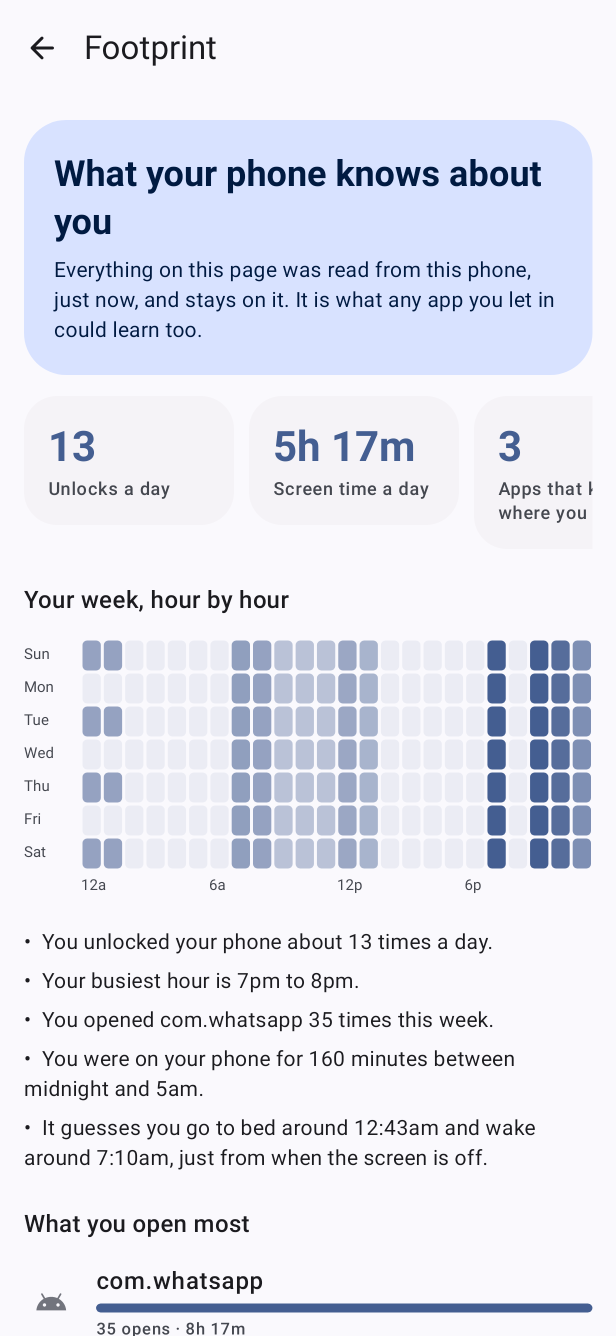
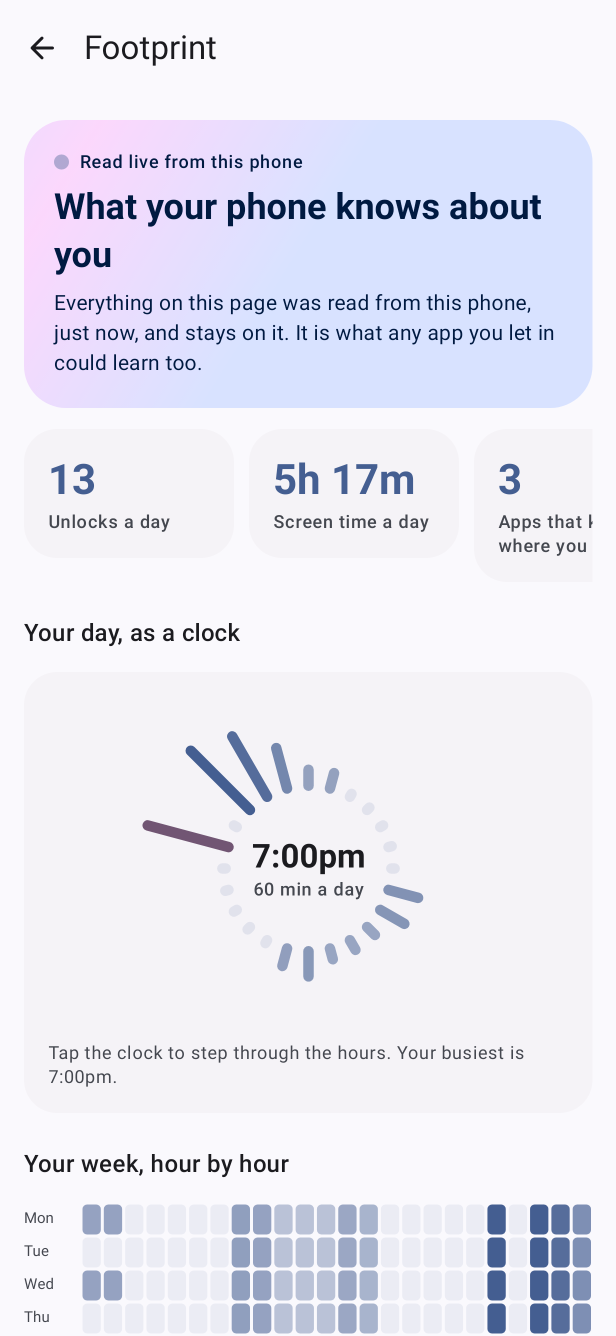
feat(footprint): animated charts and effects (1.35.0)
Drifting-gradient header, 24-hour day clock, access ring chart, smooth area charts, growing bars, press and rise effects.

Claude-Session: https://claude.ai/code/session_01Tx3SnRy1Ho2ASXx4YFffLW

diff --git a/app/src/main/java/app/ultimate/footprint/FootprintCharts.kt b/app/src/main/java/app/ultimate/footprint/FootprintCharts.kt
@@ -1,0 +1,174 @@
+package app.ultimate.footprint
+
+import androidx.compose.animation.core.Animatable
+import androidx.compose.animation.core.FastOutSlowInEasing
+import androidx.compose.animation.core.LinearEasing
+import androidx.compose.animation.core.RepeatMode
+import androidx.compose.animation.core.animateFloat
+import androidx.compose.animation.core.infiniteRepeatable
+import androidx.compose.animation.core.rememberInfiniteTransition
+import androidx.compose.animation.core.tween
+import androidx.compose.foundation.Canvas
+import androidx.compose.foundation.background
+import androidx.compose.foundation.clickable
+import androidx.compose.foundation.layout.Arrangement
+import androidx.compose.foundation.layout.Box
+import androidx.compose.foundation.layout.Column
+import androidx.compose.foundation.layout.Row
+import androidx.compose.foundation.layout.fillMaxWidth
+import androidx.compose.foundation.layout.height
+import androidx.compose.foundation.layout.padding
+import androidx.compose.foundation.layout.size
+import androidx.compose.foundation.shape.CircleShape
+import androidx.compose.foundation.shape.RoundedCornerShape
+import androidx.compose.material3.MaterialTheme
+import androidx.compose.material3.Text
+import androidx.compose.runtime.Composable
+import androidx.compose.runtime.LaunchedEffect
+import androidx.compose.runtime.getValue
+import androidx.compose.runtime.mutableIntStateOf
+import androidx.compose.runtime.remember
+import androidx.compose.runtime.setValue
+import androidx.compose.ui.Alignment
+import androidx.compose.ui.Modifier
+import androidx.compose.ui.draw.clip
+import androidx.compose.ui.geometry.Offset
+import androidx.compose.ui.geometry.Size
+import androidx.compose.ui.graphics.Brush
+import androidx.compose.ui.graphics.Color
+import androidx.compose.ui.graphics.Path
+import androidx.compose.ui.graphics.StrokeCap
+import androidx.compose.ui.graphics.drawscope.Stroke
+import androidx.compose.ui.graphics.drawscope.clipRect
+import androidx.compose.ui.text.font.FontWeight
+import androidx.compose.ui.unit.dp
+import app.ultimate.core.pressScale
+import kotlin.math.PI
+import kotlin.math.cos
+import kotlin.math.sin
+
+/** Chart arithmetic, kept apart from drawing so it can be tested. */
+object ChartMath {
+    /** Total time in each hour of the day across the week, from the seven-by-24 heat map. */
+    fun hourTotals(heat: Array<LongArray>): LongArray = LongArray(24) { h -> heat.sumOf { it.getOrElse(h) { 0L } } }
+
+    fun peakHour(totals: LongArray): Int? = totals.indices.maxByOrNull { totals[it] }?.takeIf { totals[it] > 0 }
+
+    /** Sweep angles in degrees for each share, leaving a [gap] between slices. Zero total gives no slices. */
+    fun sweeps(values: List<Int>, gap: Float = 3f): List<Float> {
+        val total = values.sum(); if (total <= 0) return values.map { 0f }
+        val usable = 360f - gap * values.count { it > 0 }
+        return values.map { if (it <= 0) 0f else usable * it / total }
+    }
+
+    /** y positions (0 top, 1 bottom) for a line chart, scaled to the biggest value. */
+    fun normalized(values: List<Long>): List<Float> { val m = values.maxOrNull()?.coerceAtLeast(1) ?: 1; return values.map { 1f - it / m.toFloat() } }
+}
+
+/** A slow-moving gradient behind the intro card, and a dot that pulses to say it was read live. */
+@Composable
+internal fun LiveHero(title: String, body: String) {
+    val t = rememberInfiniteTransition(label = "hero")
+    val drift by t.animateFloat(0f, 1f, infiniteRepeatable(tween(9000, easing = LinearEasing), RepeatMode.Reverse), label = "drift")
+    val pulse by t.animateFloat(0.4f, 1f, infiniteRepeatable(tween(1100, easing = FastOutSlowInEasing), RepeatMode.Reverse), label = "pulse")
+    val a = MaterialTheme.colorScheme.primaryContainer; val b = MaterialTheme.colorScheme.tertiaryContainer; val on = MaterialTheme.colorScheme.onPrimaryContainer
+    Column(
+        Modifier.fillMaxWidth().clip(RoundedCornerShape(28.dp))
+            .background(Brush.linearGradient(listOf(a, b, a), start = Offset(-400f + 900f * drift, 0f), end = Offset(400f + 900f * drift, 500f)))
+            .padding(20.dp),
+        verticalArrangement = Arrangement.spacedBy(6.dp),
+    ) {
+        Row(verticalAlignment = Alignment.CenterVertically) {
+            Box(Modifier.size(10.dp).clip(CircleShape).background(MaterialTheme.colorScheme.primary.copy(alpha = pulse)))
+            Text("  Read live from this phone", style = MaterialTheme.typography.labelMedium, color = on)
+        }
+        Text(title, style = MaterialTheme.typography.headlineSmall, fontWeight = FontWeight.Bold, color = on)
+        Text(body, style = MaterialTheme.typography.bodyMedium, color = on)
+    }
+}
+
+/** Your day as a clock: 24 spokes, each as long as the time you spend on the phone in that hour. They grow out from the middle once. */
+@Composable
+internal fun DayClock(heat: Array<LongArray>) {
+    val totals = remember(heat) { ChartMath.hourTotals(heat) }
+    val peak = ChartMath.peakHour(totals)
+    val grow = remember(heat) { Animatable(0f) }
+    LaunchedEffect(heat) { grow.animateTo(1f, tween(1000, easing = FastOutSlowInEasing)) }
+    var picked by remember(heat) { mutableIntStateOf(-1) }
+    val shown = if (picked >= 0) picked else peak
+    val color = MaterialTheme.colorScheme.primary; val dim = MaterialTheme.colorScheme.surfaceVariant; val hot = MaterialTheme.colorScheme.tertiary
+    Column(Modifier.fillMaxWidth().clip(RoundedCornerShape(22.dp)).background(MaterialTheme.colorScheme.surfaceContainerLow).padding(16.dp), horizontalAlignment = Alignment.CenterHorizontally) {
+        Box(Modifier.size(230.dp).clickable { picked = if (shown == null) -1 else (shown + 1) % 24 }, contentAlignment = Alignment.Center) {
+            Canvas(Modifier.size(230.dp)) {
+                val c = center; val inner = size.minDimension * 0.24f; val outer = size.minDimension / 2f - 4.dp.toPx(); val max = (totals.maxOrNull() ?: 1L).coerceAtLeast(1L).toFloat()
+                for (h in 0 until 24) {
+                    val ang = (h / 24f) * 2 * PI - PI / 2
+                    val f = totals[h] / max * grow.value
+                    val len = inner + (outer - inner) * f.coerceAtLeast(0.04f)
+                    val start = Offset(c.x + cos(ang).toFloat() * inner, c.y + sin(ang).toFloat() * inner)
+                    val end = Offset(c.x + cos(ang).toFloat() * len, c.y + sin(ang).toFloat() * len)
+                    drawLine(if (h == shown) hot else if (totals[h] > 0) color.copy(alpha = 0.45f + 0.55f * f.coerceIn(0f, 1f)) else dim, start, end, strokeWidth = 7.dp.toPx(), cap = StrokeCap.Round)
+                }
+            }
+            Column(horizontalAlignment = Alignment.CenterHorizontally) {
+                if (shown != null) {
+                    Text(Habits.clock(shown * 60), style = MaterialTheme.typography.titleLarge, fontWeight = FontWeight.Bold)
+                    Text("${totals[shown] / 60_000 / 7} min a day", style = MaterialTheme.typography.labelMedium, color = MaterialTheme.colorScheme.onSurfaceVariant)
+                } else Text("No data yet", color = MaterialTheme.colorScheme.onSurfaceVariant)
+            }
+        }
+        Text(if (peak != null) "Tap the clock to step through the hours. Your busiest is ${Habits.clock(peak * 60)}." else "Use your phone for a day and this fills in.", style = MaterialTheme.typography.bodySmall, color = MaterialTheme.colorScheme.onSurfaceVariant)
+    }
+}
+
+/** A ring split by kind of access, sweeping round once. Tap a slice's row to pick it. */
+@Composable
+internal fun AccessDonut(items: List<Pair<String, Int>>, colors: List<Color>, selected: Int, onPick: (Int) -> Unit) {
+    val sweeps = remember(items) { ChartMath.sweeps(items.map { it.second }) }
+    val grow = remember(items) { Animatable(0f) }
+    LaunchedEffect(items) { grow.animateTo(1f, tween(1100, easing = FastOutSlowInEasing)) }
+    Row(Modifier.fillMaxWidth().clip(RoundedCornerShape(22.dp)).background(MaterialTheme.colorScheme.surfaceContainerLow).padding(16.dp), verticalAlignment = Alignment.CenterVertically) {
+        Box(Modifier.size(130.dp), contentAlignment = Alignment.Center) {
+            Canvas(Modifier.size(130.dp)) {
+                var from = -90f; val w = 16.dp.toPx(); val pad = w / 2 + 4.dp.toPx()
+                sweeps.forEachIndexed { i, s ->
+                    val span = s * grow.value
+                    drawArc(colors[i % colors.size].copy(alpha = if (selected < 0 || selected == i) 1f else 0.3f), from, span, false, Offset(pad, pad), Size(size.width - 2 * pad, size.height - 2 * pad), style = Stroke(if (selected == i) w + 4.dp.toPx() else w, cap = StrokeCap.Butt))
+                    from += s + 3f
+                }
+            }
+            Text(items.getOrNull(selected)?.second?.toString() ?: items.sumOf { it.second }.toString(), style = MaterialTheme.typography.headlineSmall, fontWeight = FontWeight.Bold)
+        }
+        Column(Modifier.padding(start = 16.dp), verticalArrangement = Arrangement.spacedBy(4.dp)) {
+            items.take(6).forEachIndexed { i, (name, n) ->
+                Row(Modifier.fillMaxWidth().pressScale(0.97f).clip(RoundedCornerShape(10.dp)).clickable { onPick(if (selected == i) -1 else i) }.padding(vertical = 3.dp), verticalAlignment = Alignment.CenterVertically) {
+                    Box(Modifier.size(10.dp).clip(CircleShape).background(colors[i % colors.size])); Text("  $name", Modifier.weight(1f), maxLines = 1, style = MaterialTheme.typography.bodySmall); Text("$n", style = MaterialTheme.typography.labelLarge)
+                }
+            }
+        }
+    }
+}
+
+/** A smooth line with a fill underneath, drawn left to right once. */
+@Composable
+internal fun AreaChart(values: List<Long>, modifier: Modifier = Modifier.fillMaxWidth().height(90.dp)) {
+    val draw = remember(values) { Animatable(0f) }
+    LaunchedEffect(values) { draw.animateTo(1f, tween(900, easing = FastOutSlowInEasing)) }
+    val line = MaterialTheme.colorScheme.primary
+    Canvas(modifier) {
+        if (values.size < 2) return@Canvas
+        val ys = ChartMath.normalized(values); val dx = size.width / (values.size - 1); val top = 6.dp.toPx(); val h = size.height - top - 2.dp.toPx()
+        fun pt(i: Int) = Offset(i * dx, top + ys[i] * h)
+        val path = Path().apply {
+            moveTo(pt(0).x, pt(0).y)
+            for (i in 1 until values.size) { val a = pt(i - 1); val b = pt(i); cubicTo((a.x + b.x) / 2, a.y, (a.x + b.x) / 2, b.y, b.x, b.y) }
+        }
+        val clipW = size.width * draw.value
+        clipRect(right = clipW) {
+            val fill = Path().apply { addPath(path); lineTo(pt(values.size - 1).x, size.height); lineTo(0f, size.height); close() }
+            drawPath(fill, Brush.verticalGradient(listOf(line.copy(alpha = 0.35f), Color.Transparent)))
+            drawPath(path, line, style = Stroke(3.dp.toPx(), cap = StrokeCap.Round))
+        }
+        if (draw.value >= 1f) drawCircle(line, 5.dp.toPx(), pt(values.size - 1))
+    }
+}

diff --git a/app/src/main/java/app/ultimate/footprint/FootprintTool.kt b/app/src/main/java/app/ultimate/footprint/FootprintTool.kt
@@ -9,6 +9,8 @@ import androidx.compose.animation.core.Animatable
 import androidx.compose.animation.core.FastOutSlowInEasing
 import androidx.compose.animation.core.LinearEasing
 import androidx.compose.animation.core.tween
+import androidx.compose.animation.core.animateFloatAsState
+import app.ultimate.core.appear
 import androidx.compose.foundation.Canvas
 import androidx.compose.foundation.background
 import androidx.compose.foundation.clickable
@@ -111,16 +113,13 @@ internal fun FootprintScreen(app: UltimateApp, onExit: () -> Unit, preset: Loade
     }
     var showAccess by remember { mutableStateOf<Access?>(null) }
     var allFacts by remember { mutableStateOf(false) }
+    val seen = remember { mutableSetOf<Any>() }
+    var slice by remember { mutableIntStateOf(-1) }
     val d = data
 
     Scaffold(topBar = { TopAppBar(title = { Text("Footprint") }, navigationIcon = { ToolBackButton(onExit) }, actions = { ShellActions() }) }) { pad ->
         LazyColumn(Modifier.padding(pad), contentPadding = PaddingValues(16.dp), verticalArrangement = Arrangement.spacedBy(14.dp)) {
-            item {
-                Column(Modifier.fillMaxWidth().clip(RoundedCornerShape(28.dp)).background(MaterialTheme.colorScheme.primaryContainer).padding(20.dp), verticalArrangement = Arrangement.spacedBy(6.dp)) {
-                    Text("What your phone knows about you", style = MaterialTheme.typography.headlineSmall, fontWeight = FontWeight.Bold, color = MaterialTheme.colorScheme.onPrimaryContainer)
-                    Text("Everything on this page was read from this phone, just now, and stays on it. It is what any app you let in could learn too.", style = MaterialTheme.typography.bodyMedium, color = MaterialTheme.colorScheme.onPrimaryContainer)
-                }
-            }
+            item { LiveHero("What your phone knows about you", "Everything on this page was read from this phone, just now, and stays on it. It is what any app you let in could learn too.") }
             if (d == null) { item { Text("Reading your phone…", color = MaterialTheme.colorScheme.onSurfaceVariant) }; return@LazyColumn }
 
             item {
@@ -143,6 +142,8 @@ internal fun FootprintScreen(app: UltimateApp, onExit: () -> Unit, preset: Loade
                 }
             } else {
                 val u = d.usage
+                item { Section("Your day, as a clock") }
+                item { Box(Modifier.appear("clock", seen, 1)) { DayClock(u.heat) } }
                 item { Section("Your week, hour by hour") }
                 item { HeatMap(u.heat) }
                 val label = { pkg: String -> FootprintReaders.label(context, pkg) }
@@ -175,6 +176,10 @@ internal fun FootprintScreen(app: UltimateApp, onExit: () -> Unit, preset: Loade
 
             item { Section("Who can see what") }
             val counts = Access.values().map { a -> a to d.apps.count { a in it.access } }.filter { it.second > 0 }.sortedWith(compareByDescending<Pair<Access, Int>> { it.first.sensitive }.thenBy { it.first.ordinal })
+            if (counts.isNotEmpty()) item {
+                val palette = listOf(MaterialTheme.colorScheme.error, MaterialTheme.colorScheme.primary, MaterialTheme.colorScheme.tertiary, MaterialTheme.colorScheme.secondary, MaterialTheme.colorScheme.inversePrimary, MaterialTheme.colorScheme.outline)
+                Box(Modifier.appear("donut", seen, 2)) { AccessDonut(counts.map { it.first.label to it.second }, palette, slice) { slice = it } }
+            }
             items(counts, key = { "a-" + it.first.name }) { (a, n) ->
                 Row(Modifier.fillMaxWidth().pressScale(0.98f).clip(RoundedCornerShape(16.dp)).clickable { showAccess = a }.padding(vertical = 8.dp), verticalAlignment = Alignment.CenterVertically) {
                     Column(Modifier.weight(1f)) { Text(a.label, fontWeight = FontWeight.Medium); Text(a.note, style = MaterialTheme.typography.bodySmall, color = MaterialTheme.colorScheme.onSurfaceVariant) }
@@ -220,7 +225,7 @@ internal fun FootprintScreen(app: UltimateApp, onExit: () -> Unit, preset: Loade
 private fun Stat(label: String, value: Float, format: (Float) -> String) {
     val shown = remember(value) { Animatable(0f) }
     LaunchedEffect(value) { shown.animateTo(value, tween(900, easing = FastOutSlowInEasing)) }
-    Column(Modifier.width(140.dp).clip(RoundedCornerShape(22.dp)).background(MaterialTheme.colorScheme.surfaceContainerLow).padding(16.dp), verticalArrangement = Arrangement.spacedBy(2.dp)) {
+    Column(Modifier.width(140.dp).pressScale(0.96f).clip(RoundedCornerShape(22.dp)).background(MaterialTheme.colorScheme.surfaceContainerLow).padding(16.dp), verticalArrangement = Arrangement.spacedBy(2.dp)) {
         Text(format(shown.value), style = MaterialTheme.typography.headlineMedium, fontWeight = FontWeight.Bold, color = MaterialTheme.colorScheme.primary)
         Text(label, style = MaterialTheme.typography.labelMedium, color = MaterialTheme.colorScheme.onSurfaceVariant)
     }
@@ -233,7 +238,8 @@ private fun AppBar(pkg: String, label: String, fraction: Float, detail: String) 
         Column(Modifier.weight(1f)) {
             Text(label, fontWeight = FontWeight.Medium, maxLines = 1, overflow = TextOverflow.Ellipsis)
             Box(Modifier.padding(vertical = 3.dp).fillMaxWidth().height(6.dp).clip(RoundedCornerShape(3.dp)).background(MaterialTheme.colorScheme.surfaceVariant)) {
-                Box(Modifier.fillMaxWidth(fraction.coerceIn(0.03f, 1f)).height(6.dp).clip(RoundedCornerShape(3.dp)).background(MaterialTheme.colorScheme.primary))
+                val grown by animateFloatAsState(fraction.coerceIn(0.03f, 1f), tween(900, easing = FastOutSlowInEasing), label = "bar")
+                Box(Modifier.fillMaxWidth(grown).height(6.dp).clip(RoundedCornerShape(3.dp)).background(MaterialTheme.colorScheme.primary))
             }
             Text(detail, style = MaterialTheme.typography.labelSmall, color = MaterialTheme.colorScheme.onSurfaceVariant)
         }
@@ -295,14 +301,7 @@ private fun StepsCard() {
             else -> {
                 val list = days.entries.sortedBy { it.key }.takeLast(14)
                 Text(list.lastOrNull()?.let { "${it.value} steps today so far" } ?: "Counting… check back in a few hours.", style = MaterialTheme.typography.titleMedium, fontWeight = FontWeight.SemiBold)
-                if (list.size >= 2) {
-                    val max = list.maxOf { it.value }.coerceAtLeast(1)
-                    val bar = MaterialTheme.colorScheme.primary
-                    Canvas(Modifier.fillMaxWidth().height(70.dp)) {
-                        val w = size.width / list.size
-                        list.forEachIndexed { i, e -> val hgt = size.height * (e.value / max.toFloat()).coerceAtLeast(0.03f); drawRoundRect(bar, Offset(i * w + 3.dp.toPx(), size.height - hgt), Size(w - 6.dp.toPx(), hgt), CornerRadius(4.dp.toPx())) }
-                    }
-                }
+                if (list.size >= 2) AreaChart(list.map { it.value })
                 TextButton({ StepSampler.stop(context, forget = true); on = false; days = emptyMap() }) { Text("Stop and forget my steps") }
             }
         }

diff --git a/app/src/main/java/app/ultimate/footprint/FootprintExtras.kt b/app/src/main/java/app/ultimate/footprint/FootprintExtras.kt
@@ -171,12 +171,7 @@ internal fun HealthCard() {
             days!!.isEmpty() -> Text("Health Connect is on, but no app has written anything in the last 30 days.", style = MaterialTheme.typography.bodyMedium)
             else -> {
                 HealthMath.sentences(days!!).forEach { Text("•  $it", style = MaterialTheme.typography.bodyMedium) }
-                val steps = days!!.takeLast(30); val max = steps.maxOf { it.steps }.coerceAtLeast(1)
-                val bar = MaterialTheme.colorScheme.primary
-                Canvas(Modifier.fillMaxWidth().height(70.dp)) {
-                    val w = size.width / steps.size
-                    steps.forEachIndexed { i, e -> val h = size.height * (e.steps / max.toFloat()).coerceAtLeast(0.03f); drawRoundRect(bar, Offset(i * w + 2.dp.toPx(), size.height - h), androidx.compose.ui.geometry.Size(w - 4.dp.toPx(), h), androidx.compose.ui.geometry.CornerRadius(3.dp.toPx())) }
-                }
+                AreaChart(days!!.takeLast(30).map { it.steps })
                 TextButton({ context.startActivity(Intent("androidx.health.ACTION_HEALTH_CONNECT_SETTINGS").addFlags(Intent.FLAG_ACTIVITY_NEW_TASK)) }) { Text("Change what Ultimate can read") }
             }
         }

diff --git a/app/src/test/java/app/ultimate/FootprintTest.kt b/app/src/test/java/app/ultimate/FootprintTest.kt
@@ -242,3 +242,22 @@ class HealthMathTest {
         assertEquals(emptyList<String>(), app.ultimate.footprint.HealthMath.sentences(emptyList()))
     }
 }
+
+class ChartMathTest {
+    @Test fun hourTotalsAddTheWeek() {
+        val heat = Array(7) { d -> LongArray(24) { h -> if (h == 9) 60_000L * (d + 1) else 0L } }
+        val t = app.ultimate.footprint.ChartMath.hourTotals(heat)
+        assertEquals(24, t.size); assertEquals(60_000L * 28, t[9]); assertEquals(0L, t[3])
+        assertEquals(9, app.ultimate.footprint.ChartMath.peakHour(t))
+        assertNull(app.ultimate.footprint.ChartMath.peakHour(LongArray(24)))
+    }
+    @Test fun slicesFillTheCircleAroundGaps() {
+        val s = app.ultimate.footprint.ChartMath.sweeps(listOf(3, 1, 0), gap = 4f)
+        assertEquals(352f, s.sum(), 0.01f); assertEquals(0f, s[2], 0f); assertEquals(264f, s[0], 0.01f)
+        assertEquals(listOf(0f, 0f), app.ultimate.footprint.ChartMath.sweeps(listOf(0, 0)))
+    }
+    @Test fun lineIsScaledToTheBiggestDay() {
+        val y = app.ultimate.footprint.ChartMath.normalized(listOf(0, 5, 10))
+        assertEquals(listOf(1f, 0.5f, 0f), y)
+    }
+}

diff --git a/app/src/main/java/app/ultimate/home/AboutInfo.kt b/app/src/main/java/app/ultimate/home/AboutInfo.kt
@@ -34,6 +34,7 @@ object Changelog {
     data class Entry(val version: String, val notes: List<String>)
 
     val entries = listOf(
+        Entry("1.35.0", listOf("Footprint is livelier: a drifting-gradient header, your day as a tappable clock, a ring chart of who can see what, smooth line charts for steps, and bars that grow in.")),
         Entry("1.34.0", listOf("Footprint now also shows what you watch and listen to (opt in), where your photos were taken, and your steps, sleep and heart rate from Health Connect.")),
         Entry("1.33.0", listOf("New Footprint tool: what your phone knows about you, read from the phone itself: when you unlock, what you open, which apps can see what, data use, steps, and facts any app can read.")),
         Entry("1.32.0", listOf("Storage: open a folder and see its files as tiles, with a zoom from the tile you tap and a short glow on the biggest one.", "Clearer header and sizes (158 GB instead of 158.00 GB).")),

diff --git a/app/src/test/java/app/ultimate/AboutTest.kt b/app/src/test/java/app/ultimate/AboutTest.kt
@@ -33,7 +33,7 @@ class AboutTest {
 
     @Test fun theChangelogStartsAtTheCurrentVersion() {
         assertEquals(listOf("1.30.0", "1.29.0"), Changelog.recent("1.30.0", 2).map { it.version })
-        assertEquals("1.34.0", Changelog.entries.first().version)
+        assertEquals("1.35.0", Changelog.entries.first().version)
         assertEquals(Changelog.entries.first().version, Changelog.recent("9.9.9", 1).single().version) // an unknown version still shows the latest news
         assertTrue(Changelog.entries.map { it.version }.toSet().size == Changelog.entries.size)
     }
